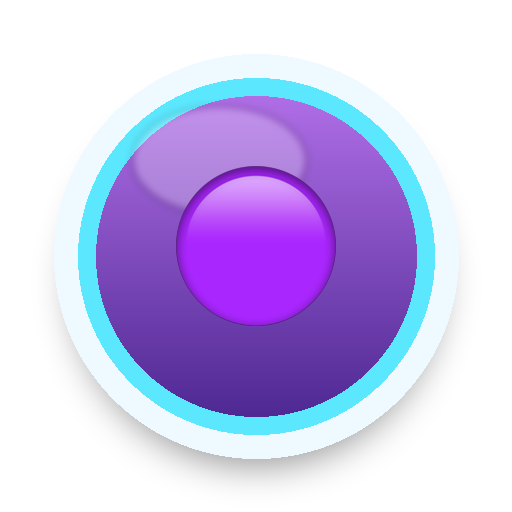
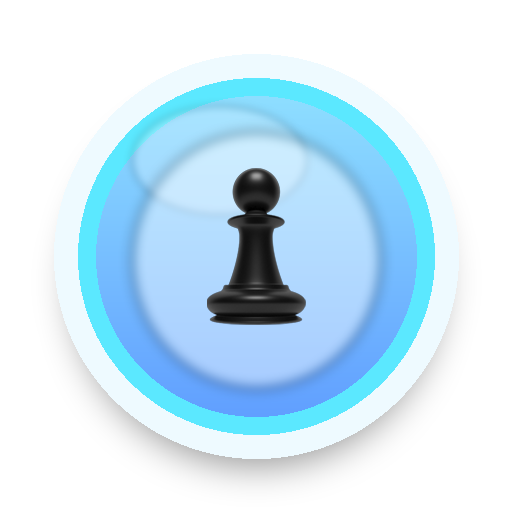
Fix emoji pawns and classic sudoku

diff --git a/frontend/src/styles/global.css b/frontend/src/styles/global.css
@@ -2257,7 +2257,6 @@ body {
 [data-piece-style="classicBlack"] .app-screen {
   background: var(--apple-bg);
   background-attachment: fixed;
-  filter: grayscale(1);
 }
 
 [data-piece-style="classicBlack"] .background-blobs::before {
@@ -2346,6 +2345,158 @@ body {
 [data-piece-style="classicBlack"] .sudoku-task.done .sudoku-task-check {
   background: #D8D8D8;
   color: #050505;
+}
+
+[data-piece-style="classicBlack"] .sudoku-screen {
+  --sudoku-ink: #F7F7F7;
+  --sudoku-muted: #A8A8A8;
+  --sudoku-paper: #ECECEC;
+  --sudoku-panel: #151515;
+  --sudoku-panel-2: #222222;
+  --sudoku-line: rgba(255, 255, 255, 0.34);
+  --sudoku-heavy-line: rgba(255, 255, 255, 0.68);
+}
+
+[data-piece-style="classicBlack"] .sudoku-toolbar,
+[data-piece-style="classicBlack"] .sudoku-stat-grid,
+[data-piece-style="classicBlack"] .sudoku-pad {
+  color: var(--sudoku-ink);
+}
+
+[data-piece-style="classicBlack"] .sudoku-iconbtn,
+[data-piece-style="classicBlack"] .sudoku-stat,
+[data-piece-style="classicBlack"] .sudoku-number,
+[data-piece-style="classicBlack"] .sudoku-tool,
+[data-piece-style="classicBlack"] .sudoku-rank-item,
+[data-piece-style="classicBlack"] .sudoku-task,
+[data-piece-style="classicBlack"] .sudoku-ach,
+[data-piece-style="classicBlack"] .sudoku-toast,
+[data-piece-style="classicBlack"] .sudoku-menu {
+  background:
+    linear-gradient(145deg, rgba(255, 255, 255, 0.11), rgba(255, 255, 255, 0.045));
+  border-color: rgba(255, 255, 255, 0.2);
+  color: var(--sudoku-ink);
+}
+
+[data-piece-style="classicBlack"] .sudoku-board-shell {
+  background:
+    linear-gradient(145deg, rgba(255, 255, 255, 0.13), rgba(255, 255, 255, 0.05)),
+    radial-gradient(circle at 50% 0%, rgba(255, 255, 255, 0.12), transparent 44%);
+  border-color: var(--sudoku-line);
+  box-shadow:
+    0 46px 96px -36px rgba(0, 0, 0, 0.86),
+    inset 0 0 0 1px rgba(255, 255, 255, 0.08);
+}
+
+[data-piece-style="classicBlack"] .sudoku-board {
+  gap: 2px;
+  background: #050505;
+  border: 2px solid var(--sudoku-heavy-line);
+}
+
+[data-piece-style="classicBlack"] .sudoku-cell {
+  --sudoku-block-right: transparent;
+  --sudoku-block-bottom: transparent;
+  background: var(--sudoku-panel);
+  color: var(--sudoku-ink);
+  box-shadow:
+    inset -1px 0 0 rgba(255, 255, 255, 0.06),
+    inset 0 -1px 0 rgba(255, 255, 255, 0.06),
+    inset -3px 0 0 var(--sudoku-block-right),
+    inset 0 -3px 0 var(--sudoku-block-bottom);
+}
+
+[data-piece-style="classicBlack"] .sudoku-cell:nth-child(3n):not(:nth-child(9n)) {
+  --sudoku-block-right: var(--sudoku-heavy-line);
+}
+
+[data-piece-style="classicBlack"] .sudoku-cell:nth-child(n + 19):nth-child(-n + 27),
+[data-piece-style="classicBlack"] .sudoku-cell:nth-child(n + 46):nth-child(-n + 54) {
+  --sudoku-block-bottom: var(--sudoku-heavy-line);
+}
+
+[data-piece-style="classicBlack"] .sudoku-cell.given {
+  background: var(--sudoku-paper);
+  color: #050505;
+}
+
+[data-piece-style="classicBlack"] .sudoku-cell.entered {
+  color: #FFFFFF;
+}
+
+[data-piece-style="classicBlack"] .sudoku-cell.peer {
+  background: var(--sudoku-panel-2);
+}
+
+[data-piece-style="classicBlack"] .sudoku-cell.same-value {
+  background: #343434;
+  box-shadow:
+    inset 0 0 0 1px rgba(255, 255, 255, 0.34),
+    inset -3px 0 0 var(--sudoku-block-right),
+    inset 0 -3px 0 var(--sudoku-block-bottom);
+}
+
+[data-piece-style="classicBlack"] .sudoku-cell.number-target::after {
+  border-color: rgba(255, 255, 255, 0.72);
+}
+
+[data-piece-style="classicBlack"] .sudoku-cell.selected {
+  background: linear-gradient(135deg, #FFFFFF, #CFCFCF);
+  color: #050505;
+  box-shadow:
+    0 12px 26px rgba(0, 0, 0, 0.34),
+    inset 0 0 0 2px rgba(0, 0, 0, 0.28);
+}
+
+[data-piece-style="classicBlack"] .sudoku-cell.error {
+  color: #FFFFFF;
+  background: #050505;
+  box-shadow:
+    inset 0 0 0 2px #FFFFFF,
+    inset -3px 0 0 var(--sudoku-block-right),
+    inset 0 -3px 0 var(--sudoku-block-bottom);
+}
+
+[data-piece-style="classicBlack"] .sudoku-notes,
+[data-piece-style="classicBlack"] .sudoku-number span,
+[data-piece-style="classicBlack"] .sudoku-toolbar-mode,
+[data-piece-style="classicBlack"] .sudoku-stat span,
+[data-piece-style="classicBlack"] .sudoku-menu-label,
+[data-piece-style="classicBlack"] .sudoku-xpbar-label {
+  color: var(--sudoku-muted);
+}
+
+[data-piece-style="classicBlack"] .sudoku-number.active,
+[data-piece-style="classicBlack"] .sudoku-tool.active,
+[data-piece-style="classicBlack"] .sudoku-tool.accent,
+[data-piece-style="classicBlack"] .sudoku-iconbtn-badge,
+[data-piece-style="classicBlack"] .sudoku-xpbar-fill,
+[data-piece-style="classicBlack"] .sudoku-ach.unlocked {
+  background: linear-gradient(135deg, #FFFFFF, #CFCFCF);
+  color: #050505;
+  border-color: transparent;
+}
+
+[data-piece-style="classicBlack"] .sudoku-number.active span {
+  color: rgba(0, 0, 0, 0.58);
+}
+
+[data-piece-style="classicBlack"] .sudoku-xpbar-track {
+  background: #050505;
+  border-color: rgba(255, 255, 255, 0.28);
+}
+
+[data-piece-style="classicBlack"] .sudoku-task.done,
+[data-piece-style="classicBlack"] .sudoku-tasks-done,
+[data-piece-style="classicBlack"] .sudoku-task.done .sudoku-task-xp {
+  color: #FFFFFF;
+  border-color: rgba(255, 255, 255, 0.68);
+}
+
+[data-piece-style="classicBlack"] .sudoku-reward-points,
+[data-piece-style="classicBlack"] .sudoku-reward-levelup,
+[data-piece-style="classicBlack"] .sudoku-task-xp {
+  color: #FFFFFF;
 }
 
 .whats-new {

diff --git a/frontend/src/data/changelog.ts b/frontend/src/data/changelog.ts
@@ -19,6 +19,7 @@ export const CHANGELOG: ChangelogEntry[] = [
       "Старые стили шахмат скрыты; доступны только Blue glass, Emoji chess и Classic black",
       "Третий стиль Classic black с чёрно-белыми PNG-фигурами",
       "Classic black включает чёрно-белый интерфейс и чёрно-белую доску; Emoji chess теперь рендерится настоящими emoji",
+      "В Emoji chess пешки заменены на настоящий pawn emoji, а судоку получило чёрно-белый Classic black вариант",
     ],
   },
   {

diff --git a/frontend/scripts/generate-v2-png-pieces.py b/frontend/scripts/generate-v2-png-pieces.py
@@ -31,7 +31,7 @@ EMOJI_PIECES = {
     "R": "🏰",
     "B": "🐘",
     "N": "🐴",
-    "P": {"w": "🟡", "b": "🟣"},
+    "P": {"w": "♟", "b": "♟"},
 }
 
 PIECE_SETS = {
@@ -169,9 +169,14 @@ def render_piece(symbol: str, color: str, palette: dict[str, tuple[int, ...] | i
 def render_emoji_piece(symbol: str, color: str) -> Image.Image:
     font = get_emoji_font()
     img = Image.new("RGBA", (SIZE, SIZE), (0, 0, 0, 0))
+    is_pawn = symbol.startswith("♟")
 
-    badge_top = (255, 238, 120) if color == "w" else (204, 130, 255)
-    badge_bottom = (244, 145, 24) if color == "w" else (50, 20, 122)
+    if is_pawn and color == "b":
+        badge_top = (155, 241, 255)
+        badge_bottom = (83, 140, 255)
+    else:
+        badge_top = (255, 238, 120) if color == "w" else (204, 130, 255)
+        badge_bottom = (244, 145, 24) if color == "w" else (50, 20, 122)
     outer = (104, 44, 0, 255) if color == "w" else (238, 250, 255, 255)
     inner = (255, 250, 204, 255) if color == "w" else (91, 232, 255, 255)
 
@@ -200,6 +205,12 @@ def render_emoji_piece(symbol: str, color: str) -> Image.Image:
     shine_draw = ImageDraw.Draw(shine)
     shine_draw.ellipse((132, 106, 306, 214), fill=(255, 255, 255, 64))
     img.alpha_composite(shine.filter(ImageFilter.GaussianBlur(4)))
+
+    if is_pawn:
+        pawn_halo = Image.new("RGBA", (SIZE, SIZE), (0, 0, 0, 0))
+        pawn_halo_draw = ImageDraw.Draw(pawn_halo)
+        pawn_halo_draw.ellipse((132, 132, 380, 388), fill=(255, 255, 255, 112))
+        img.alpha_composite(pawn_halo.filter(ImageFilter.GaussianBlur(6)))
 
     emoji_layer = Image.new("RGBA", (SIZE, SIZE), (0, 0, 0, 0))
     draw = ImageDraw.Draw(emoji_layer)

diff --git a/CHANGELOG.md b/CHANGELOG.md
@@ -13,6 +13,7 @@
 - Старые стили шахмат скрыты; доступны только Blue glass, Emoji chess и Classic black.
 - Добавлен третий стиль Classic black с чёрно-белыми PNG-фигурами.
 - Classic black включает чёрно-белый интерфейс и чёрно-белую доску; Emoji chess теперь рендерится настоящими emoji.
+- В Emoji chess пешки заменены на настоящий pawn emoji, а судоку получило чёрно-белый Classic black вариант.
 
 ## v1.5 — 2026-06-19 · Шашки: бот и онлайн
 
